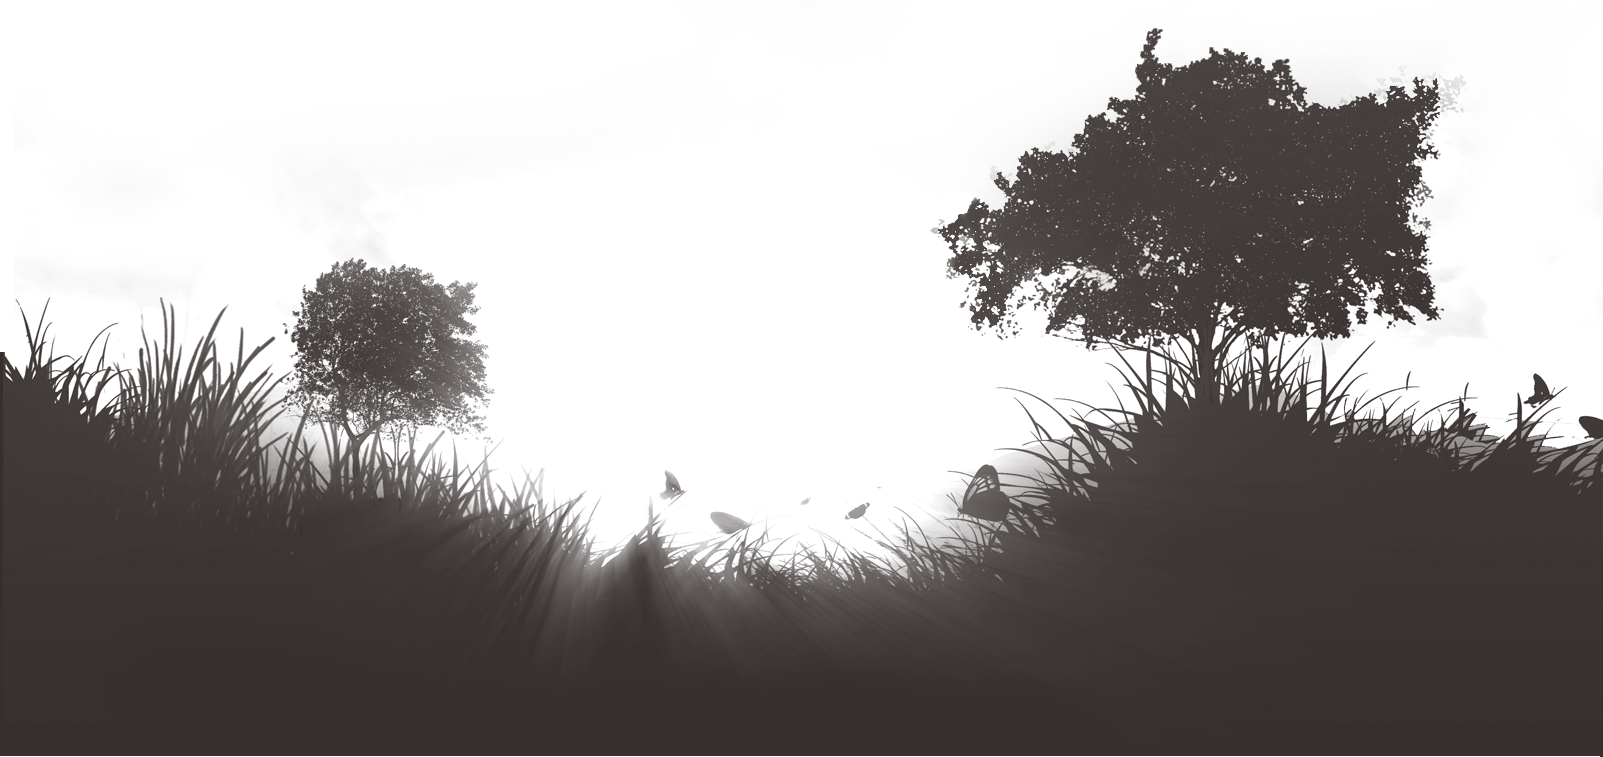
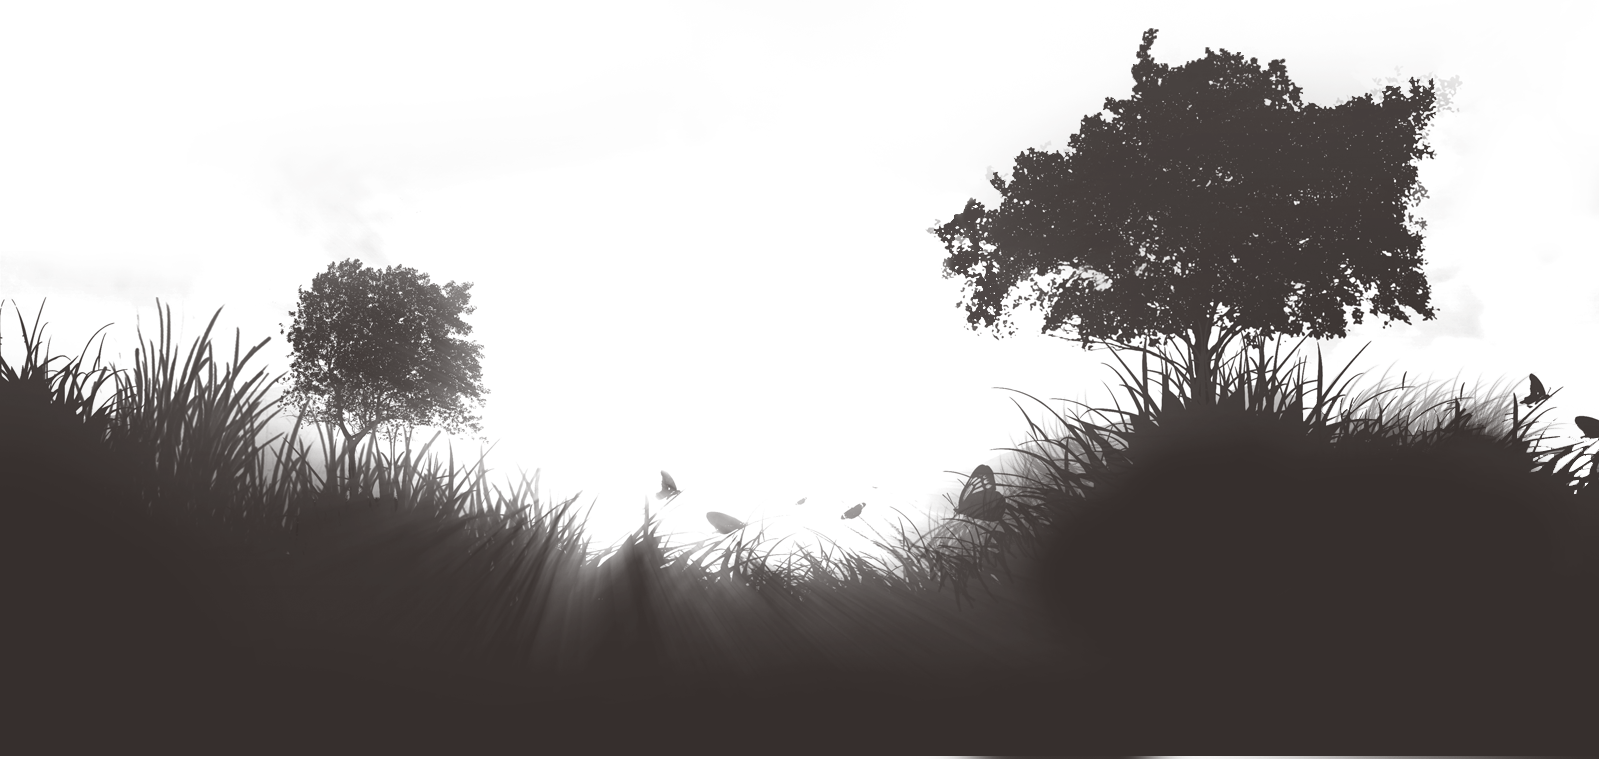
got final design working

diff --git a/app/styles/_main.scss b/app/styles/_main.scss
@@ -1,6 +1,9 @@
 $footerHeight: 755px;
 $maxWidth: 1600px;
 $darkColor: #332C2A;
+$darkColor: #36312F;
+$darkColor: #362f2d;
+$lightBlue: #c5d3e1;
 
 a{
 	color: $darkColor;
@@ -14,9 +17,22 @@ a{
   background-color: $darkColor;
 }
 
+.jumbotron{
+	background: rgba( white, .5);
+	h4{
+	}
+	.fairy{
+		float: left;
+		margin-top: 25px;
+		width: 184px;
+		height: 205px;
+	}
+}
+
 
 body{
 	position: relative;
+	background: $darkColor;
 }
 
 .header{
@@ -28,12 +44,27 @@ body{
 	h3{
 		padding-bottom: 0;
 	}
+
+	.logo{
+		text-indent: -9999px;
+		background: url("../images/logo-text.png") no-repeat;
+		width: 230px;
+		height: 50px;
+		// float: left;
+		// border: 1px dashed $darkColor;
+		// border-radius: 3px;
+	}
+
+	.nav{
+		float: right;
+	}
+
 }
 
 .page-wrapper{
 	margin: 0 auto;
 	max-width: $maxWidth;
-	background: url("../images/bg.jpg") #c8d8e6 ;
+	background: url("../images/bg.jpg") $lightBlue no-repeat;
 	overflow: hidden;
 	// margin-bottom: 500px;
 }
@@ -50,6 +81,30 @@ body{
 	position: relative;
 	padding: 0;
 	margin: 0;
+
+
+}
+
+.footer-content{
+	$width: 600px;
+	color: white;
+	position: absolute;
+	width: $width;
+	left: 50%;
+	margin-left: $width/-2;
+	height: 30px;
+	bottom: 0;
+	text-align: center;
+	vertical-align: bottom;
+	font-size: .85em;
+	&, a{
+		color: lighten( $darkColor, 50%);
+	}
+	a{
+		font-size: 1.15em;
+	}
+	.copyright{
+	}
 }
 
 .sun{
@@ -59,7 +114,7 @@ body{
 	position: absolute;
 	width: $width;
 	height: 530px;
-	bottom: 155px;
+	bottom: 80px;
 	left: 50%;
 	margin-left: $width/-2;
 }
@@ -72,7 +127,7 @@ body{
 		width: 1230px;
 		height: 435px;
 		right: 0px;
-		bottom: 255px;
+		bottom: 185px;
 	}
 	&.medium{
 		background: url("../images/cloud-medium.png") ;
@@ -83,10 +138,8 @@ body{
 		background: url("../images/cloud-small.png") ;
 		width: 405px;
 		height: 220px;
-		right: 50px;
-		left: 50%;
-		margin-left: 100px;
-		bottom: 240px;
+		left: 40%;
+		top: 120px;
 	}
 }
 

diff --git a/app/styles/main.scss b/app/styles/main.scss
@@ -1,0 +1,91 @@
+$icon-font-path: "/bower_components/sass-bootstrap/fonts/";
+
+@import 'sass-bootstrap/lib/bootstrap';
+
+.browsehappy {
+    margin: 0.2em 0;
+    background: #ccc;
+    color: #000;
+    padding: 0.2em 0;
+}
+
+/* Space out content a bit */
+body {
+    padding-top: 20px;
+    padding-bottom: 20px;
+}
+
+/* Everything but the jumbotron gets side spacing for mobile first views */
+.header,
+.marketing,
+.footer {
+    padding-left: 15px;
+    padding-right: 15px;
+}
+
+/* Custom page header */
+.header {
+    border-bottom: 1px solid #e5e5e5;
+}
+
+/* Make the masthead heading the same height as the navigation */
+.header h3 {
+    margin-top: 0;
+    margin-bottom: 0;
+    line-height: 40px;
+    padding-bottom: 19px;
+}
+
+/* Custom page footer */
+.footer {
+    padding-top: 19px;
+    color: #777;
+    border-top: 1px solid #e5e5e5;
+}
+
+.container-narrow > hr {
+    margin: 30px 0;
+}
+
+/* Main marketing message and sign up button */
+.jumbotron {
+    text-align: center;
+    border-bottom: 1px solid #e5e5e5;
+}
+
+.jumbotron .btn {
+    font-size: 21px;
+    padding: 14px 24px;
+}
+
+/* Supporting marketing content */
+.marketing {
+    margin: 40px 0;
+}
+
+.marketing p + h4 {
+    margin-top: 28px;
+}
+
+/* Responsive: Portrait tablets and up */
+@media screen and (min-width: 768px) {
+    .container {
+        max-width: 730px;
+    }
+
+    /* Remove the padding we set earlier */
+    .header,
+    .marketing,
+    .footer {
+        padding-left: 0;
+        padding-right: 0;
+    }
+    /* Space out the masthead */
+    .header {
+        margin-bottom: 30px;
+    }
+    /* Remove the bottom border on the jumbotron for visual effect */
+    .jumbotron {
+        border-bottom: 0;
+    }
+}

diff --git a/app/styles/_responsive.scss b/app/styles/_responsive.scss
@@ -1,22 +1,40 @@
 /* Responsive: Portrait tablets and up */
 @media screen and (min-width: 768px) {
-    .container {
-        max-width: 730px;
-    }
+	.container {
+		max-width: 730px;
+	}
 
-    /* Remove the padding we set earlier */
-    .header,
-    .marketing,
-    .footer {
-        // padding-left: 0;
-        // padding-right: 0;
-    }
-    /* Space out the masthead */
-    .header {
-        margin-bottom: 30px;
-    }
-    /* Remove the bottom border on the jumbotron for visual effect */
-    .jumbotron {
-        border-bottom: 0;
-    }
+	/* Remove the padding we set earlier */
+	.header,
+	.marketing,
+	.footer {
+		// padding-left: 0;
+		// padding-right: 0;
+	}
+	/* Space out the masthead */
+	.header {
+		margin-bottom: 30px;
+	}
+	/* Remove the bottom border on the jumbotron for visual effect */
+	.jumbotron {
+		border-bottom: 0;
+	}
+}
+
+
+
+@media screen and (max-width: 360px) {
+	.header{
+		margin-bottom: 0;
+		.logo{
+			margin-top: 17px;
+		}
+		 .nav{
+			// margin-top: 50px;
+			// float: left;
+			float: none;
+		}
+	}
+
+
 }

diff --git a/app/index.html b/app/index.html
@@ -57,13 +57,14 @@
     <script src="bower_components/angular-sanitize/angular-sanitize.js"></script>
     <script src="bower_components/angular-route/angular-route.js"></script>
     <!-- endbower -->
+
     <!-- endbuild -->
 
-        <!-- build:js({.tmp,app}) scripts/scripts.js -->
-        <script src="scripts/app.js"></script>
-        <script src="scripts/controllers/main.js"></script>
-        <script src="views/o-header.js"></script>
-        <script src="views/o-footer.js"></script>
-        <!-- endbuild -->
+    <!-- build:js({.tmp,app}) scripts/the-oil-fairy.js -->
+    <script src="scripts/app.js"></script>
+    <script src="scripts/controllers/main.js"></script>
+    <script src="views/o-header.js"></script>
+    <script src="views/o-footer.js"></script>
+    <!-- endbuild -->
 </body>
 </html>

diff --git a/Gruntfile.js b/Gruntfile.js
@@ -1,4 +1,4 @@
-// Generated on 2014-05-16 using generator-angular 0.7.1
+// Generated on 2014-05-20 using generator-angular 0.7.1
 'use strict';
 
 // # Globbing
@@ -284,7 +284,7 @@ module.exports = function (grunt) {
             '*.html',
             'views/{,*/}*.html',
             'bower_components/**/*',
-            'images/{,*/}*.{webp}',
+            'images/{,*/}*',
             'fonts/*'
           ]
         }, {
@@ -312,7 +312,7 @@ module.exports = function (grunt) {
       ],
       dist: [
         'compass:dist',
-        'imagemin',
+        // 'imagemin'
         'svgmin'
       ]
     },
@@ -393,7 +393,7 @@ module.exports = function (grunt) {
     'cdnify',
     'cssmin',
     'uglify',
-    'rev',
+    // 'rev',
     'usemin',
     'htmlmin'
   ]);

diff --git a/app/views/main.html b/app/views/main.html
@@ -1,14 +1,15 @@
 
 
-<div class="welcome">
-  <h1>Welcom to the Oil Fairy</h1>
+<div class="jumbotron">
+<img src="/images/fairy.png" alt="fairy" class="fairy">
+  <h1>Welcome to The Oil Fairy</h1>
   
-</div>
-
 <div class="coming-soon">
   <h3> The new site is coming soon.</h3>
-  <h4>Use the links above to find out more me and Doterra Essential Oils</h4>
+  <h4>Use the links above to find out more about me and Doterra Essential Oils</h4>
 
 </div>
+</div>
+
 
 

diff --git a/app/views/o-header.html b/app/views/o-header.html
@@ -1,8 +1,8 @@
 <div class="header">
-  <ul class="nav nav-pills pull-right">
+  <ul class="nav nav-pills">
     <li class="active"><a ng-href="#">Home</a></li>
     <li><a ng-href="http://www.mydoterra.com/rhondapeterson/">My Doterra</a></li>
     <li><a ng-href="http://www.mydoterra.com/rhondapeterson/contactUs.html">Contact</a></li>
   </ul>
-  <h3 class="">The Oil Fairy</h3>
+  <h3 class="logo">The Oil Fairy</h3>
 </div>

diff --git a/app/views/o-footer.html b/app/views/o-footer.html
@@ -4,4 +4,10 @@
   <div class="sun"></div>
   <div class="cloud small"></div>
 	<div class="foreground"></div>
+	<div class="footer-content">
+		<div class="copyright">
+		<span>	&copy; 2014 The Oil Fairy | Site By:</span> <a href="http://www.pixel-trix.com">pixel-trix</a>
+		</div>
+
+	</div>
 </footer>
